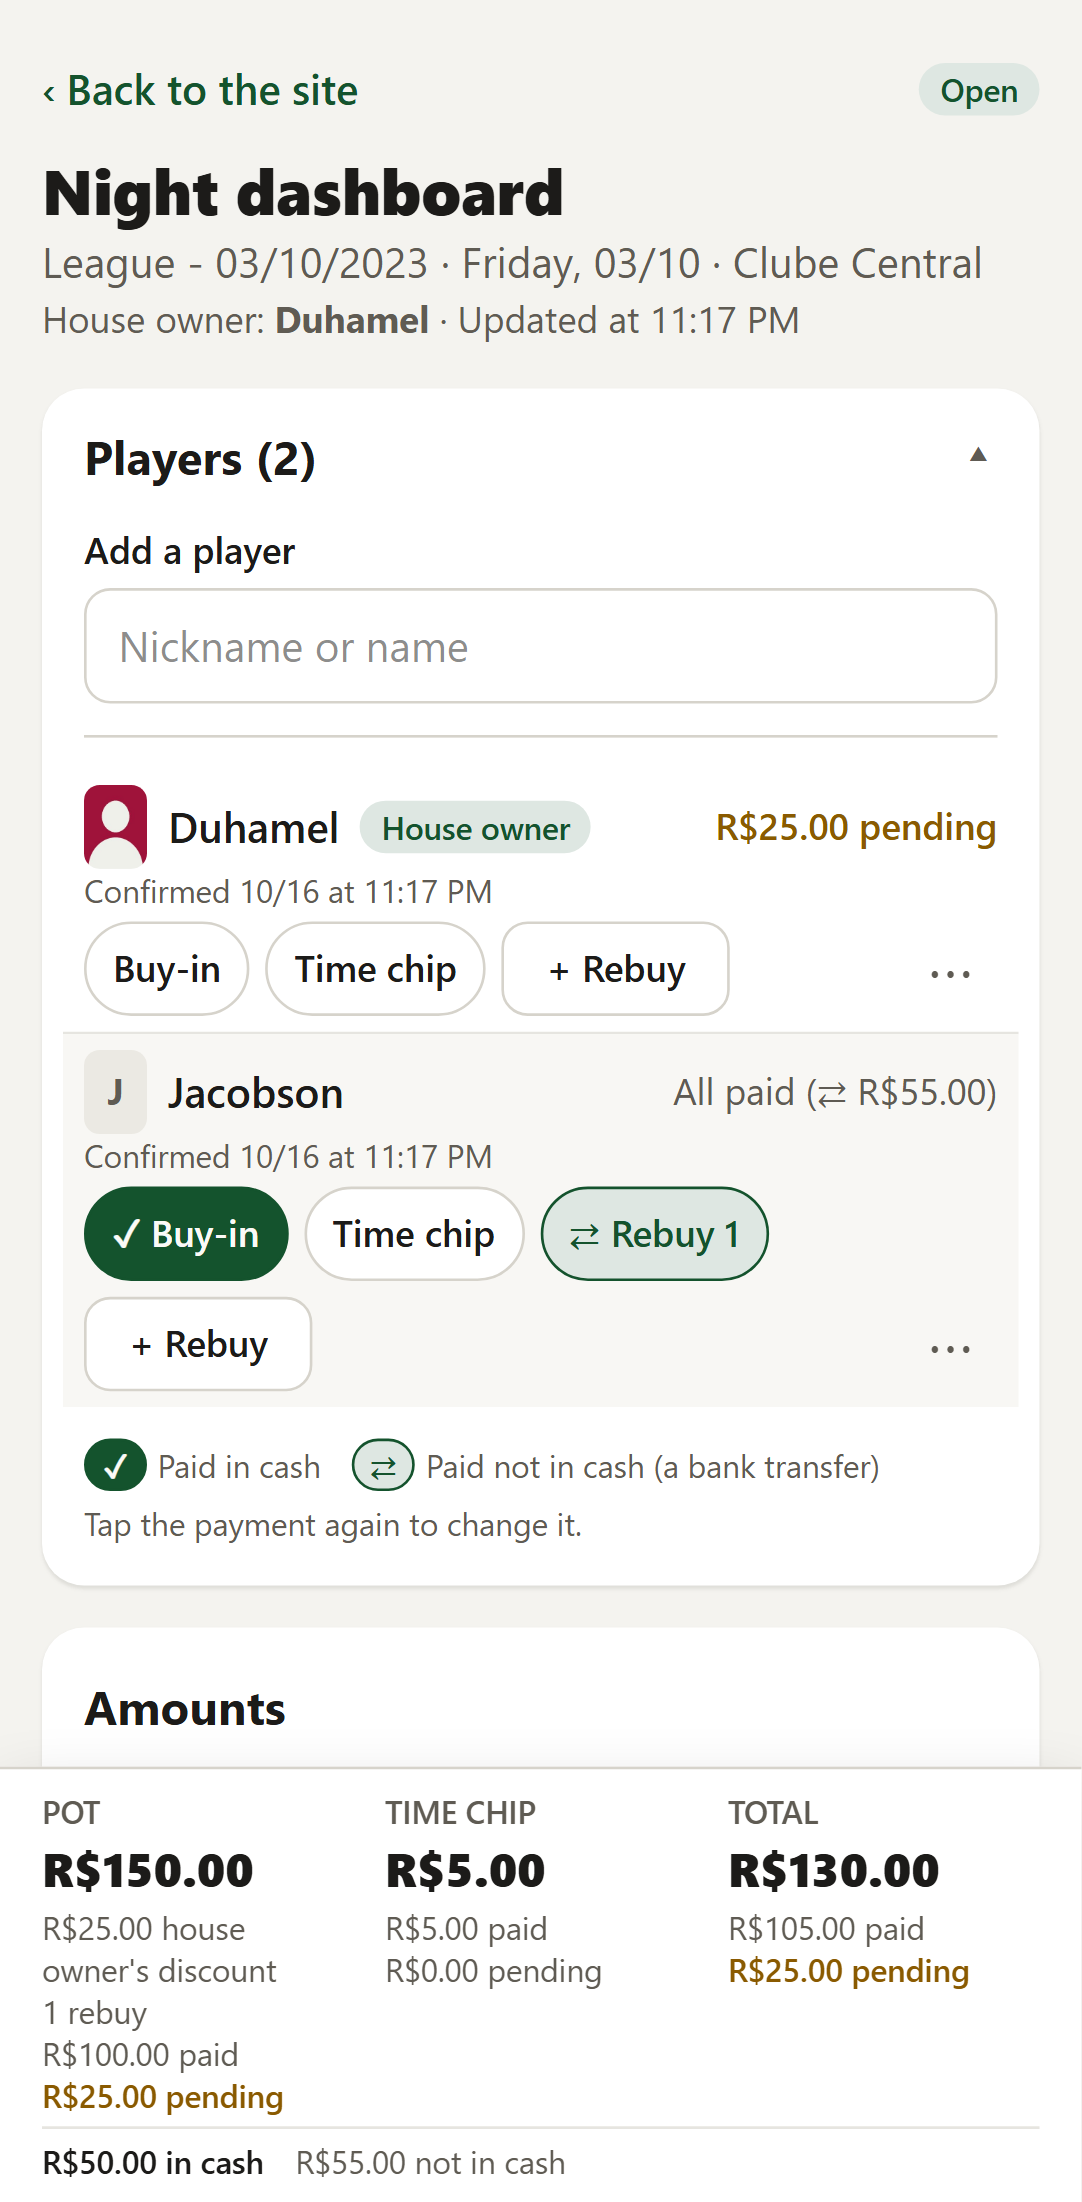
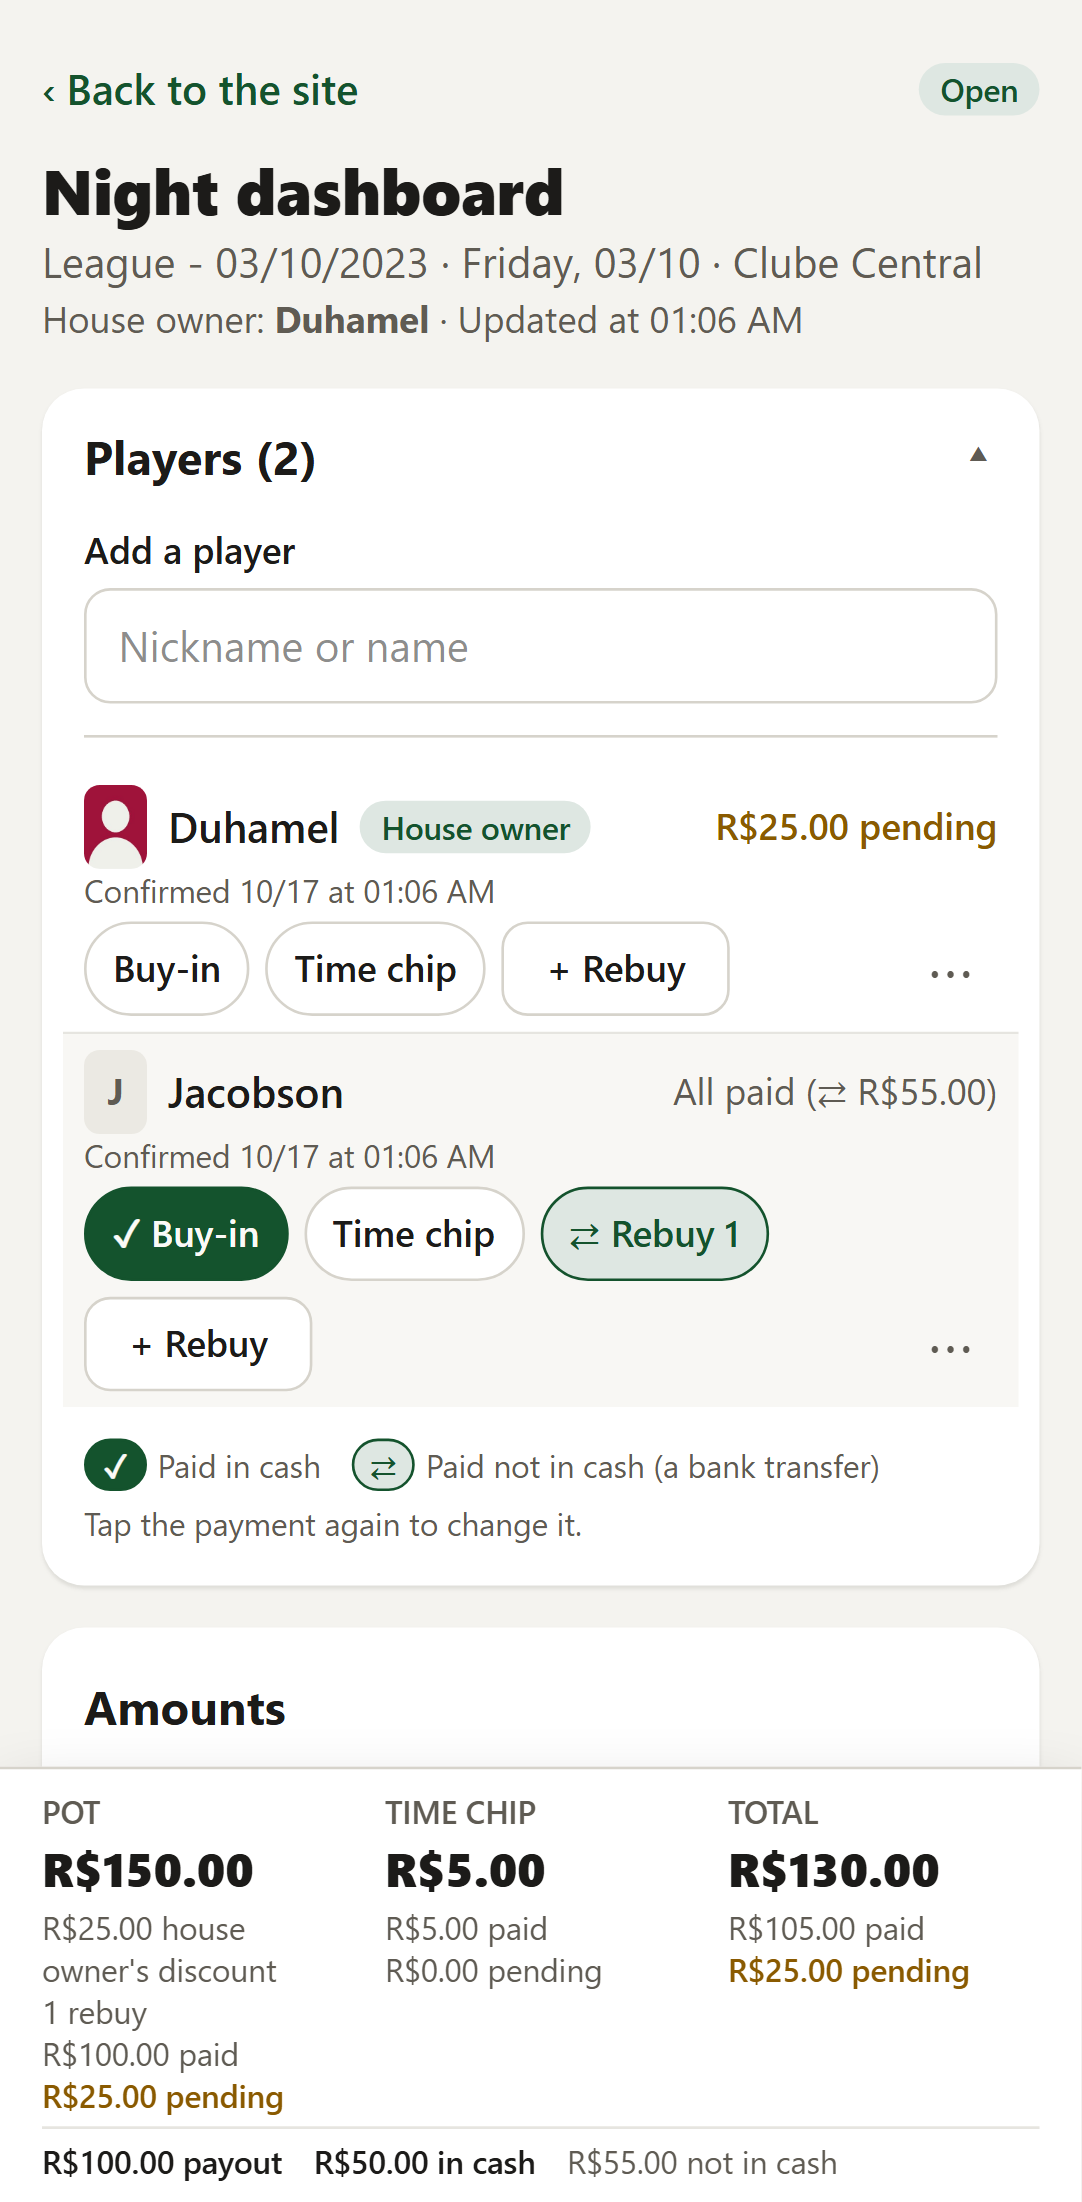
Show the night's payout on the night dashboard
The foot of the dashboard shows the payout ("Premiação"): the total without
the time chip, less the Main Event pot. It uses the amounts in use, so a pot
or a Main Event pot set by hand counts. Spec rule 11b, the glossary and the
dashboard screenshot are updated.

Claude-Session: https://claude.ai/code/session_01WMNcVpqiCsiS9yTczm4kWw

diff --git a/frontend/src/features/dashboard/NightDashboardView.tsx b/frontend/src/features/dashboard/NightDashboardView.tsx
@@ -372,8 +372,9 @@ function AmountsForm({ dashboard, onChange }: { dashboard: NightDashboard; onCha
  * The night's amounts, always in sight at the foot of the screen: the pot, the time chip apart from it, and the
  * two added up. The pot is the pot for points; when the owner of the house pays less, a line says by how much, so
  * that what the players owe adds up. Once the night has a rebuy, a line under the pot says how many. An amount
- * typed by hand stands in for the one worked out, which is still shown below it. Each says what was paid and what is pending, of what the players owe. Once a payment was not in cash, a line below
- * says how much of what was paid is in cash, to check the money in hand. With a large font, a column that does
+ * typed by hand stands in for the one worked out, which is still shown below it. Each says what was paid and what is pending, of what the players owe. A line below
+ * says how much is paid out to the players. Once a payment was not in cash, it also says how much of what was paid
+ * is in cash, to check the money in hand. With a large font, a column that does
  * not fit moves to a new line rather than cut its amounts short.
  */
 export function DashboardTotals({ dashboard }: { dashboard: NightDashboard }) {
@@ -413,12 +414,15 @@ export function DashboardTotals({ dashboard }: { dashboard: NightDashboard }) {
           </div>
         ))}
       </dl>
-      {Number(received.non_cash) !== 0 && (
-        <p className="mt-1 flex flex-wrap gap-x-3 border-t border-border/60 pt-1 text-xs tabular">
-          <span className="font-semibold">{t.dashboard.totals.cash({ amount: formatMoney(received.cash) })}</span>
-          <span className="text-muted">{t.dashboard.totals.nonCash({ amount: formatMoney(received.non_cash) })}</span>
-        </p>
-      )}
+      <p className="mt-1 flex flex-wrap gap-x-3 border-t border-border/60 pt-1 text-xs tabular">
+        <span className="font-semibold">{t.dashboard.totals.payout({ amount: formatMoney(inUse.payout) })}</span>
+        {Number(received.non_cash) !== 0 && (
+          <>
+            <span className="font-semibold">{t.dashboard.totals.cash({ amount: formatMoney(received.cash) })}</span>
+            <span className="text-muted">{t.dashboard.totals.nonCash({ amount: formatMoney(received.non_cash) })}</span>
+          </>
+        )}
+      </p>
     </section>
   )
 }

diff --git a/frontend/src/features/dashboard/dashboardMoney.ts b/frontend/src/features/dashboard/dashboardMoney.ts
@@ -103,13 +103,15 @@ export function recalculated(dashboard: NightDashboard): NightDashboard {
  * and else the ones worked out from the players. The pot is the pot for points, which counts the house owner's
  * buy-in in full; the total is money, so it leaves the house owner's discount out. `timeChip` is null on a site
  * without the time chip. The Main Event pot is the one set by hand, or else the season's share of the money; null
- * when the season sets none.
+ * when the season sets none. The payout is the money paid out to the players: the total without the time chip,
+ * less the Main Event pot.
  */
-export function amountsInUse(dashboard: NightDashboard): { pot: string; timeChip: string | null; total: string; mainEventPot: string | null } {
+export function amountsInUse(dashboard: NightDashboard): { pot: string; timeChip: string | null; total: string; mainEventPot: string | null; payout: string } {
   const pot = dashboard.manual.pot ?? dashboard.scoring_pot
   const timeChip = dashboard.totals.time_chip ? (dashboard.manual.time_chip ?? dashboard.totals.time_chip.owed) : null
   const mainEventPot = dashboard.main_event_pot ?? dashboard.suggested_main_event_pot
-  return { pot, timeChip, total: decimal(cents(pot) - cents(dashboard.house_owner_discount) + cents(timeChip ?? '0')), mainEventPot }
+  const money = cents(pot) - cents(dashboard.house_owner_discount)
+  return { pot, timeChip, total: decimal(money + cents(timeChip ?? '0')), mainEventPot, payout: decimal(money - cents(mainEventPot ?? '0')) }
 }
 
 const emptyLine = (player: Player): DashboardPlayer => ({

diff --git a/frontend/src/features/dashboard/dashboardMoney.test.ts b/frontend/src/features/dashboard/dashboardMoney.test.ts
@@ -187,7 +187,16 @@ describe('the pot for points', () => {
 describe('amountsInUse', () => {
   it('is what the dashboard works out, with the season\'s share of the pot as the Main Event pot', () => {
     // The pot for points counts the house owner's buy-in in full; the total is money.
-    expect(amountsInUse(nightDashboard)).toEqual({ pot: '450.00', timeChip: '25.00', total: '450.00', mainEventPot: '85.00' })
+    expect(amountsInUse(nightDashboard)).toEqual({ pot: '450.00', timeChip: '25.00', total: '450.00', mainEventPot: '85.00', payout: '340.00' })
+  })
+
+  it('pays out the total without the time chip, less the Main Event pot', () => {
+    // R$ 450,00 less the time chip of R$ 25,00 and the Main Event pot of R$ 90,00.
+    expect(amountsInUse({ ...nightDashboard, main_event_pot: '90.00' }).payout).toBe('335.00')
+    // A pot typed by hand: R$ 600,00 less the house owner's discount of R$ 25,00 and the Main Event pot.
+    expect(amountsInUse({ ...nightDashboard, manual: { pot: '600.00', time_chip: '40.00' }, suggested_main_event_pot: '115.00' }).payout).toBe('460.00')
+    // A season with no Main Event pot pays out all the money.
+    expect(amountsInUse({ ...nightDashboard, suggested_main_event_pot: null }).payout).toBe('425.00')
   })
 
   it('takes an amount typed by hand in place of the one worked out, one at a time', () => {

diff --git a/frontend/src/i18n/pt-BR/dashboard.ts b/frontend/src/i18n/pt-BR/dashboard.ts
@@ -90,6 +90,8 @@ export const dashboard = {
     houseOwnerDiscount: ({ amount }: { amount: string }) => `Desconto do dono da casa ${amount}`,
     /** How many rebuys the night has, paid or not. */
     rebuys: ({ count }: { count: number }) => `${count} ${plural(count, { one: 'rebuy', other: 'rebuys' })}`,
+    /** The money paid out to the players: the total without the time chip, less the Main Event pot. */
+    payout: ({ amount }: { amount: string }) => `Premiação ${amount}`,
     /** Of what was paid: what should be in hand, and what was paid another way, such as a bank transfer. */
     cash: ({ amount }: { amount: string }) => `Em dinheiro ${amount}`,
     nonCash: ({ amount }: { amount: string }) => `Fora do dinheiro ${amount}`,

diff --git a/frontend/src/i18n/en/dashboard.ts b/frontend/src/i18n/en/dashboard.ts
@@ -84,6 +84,8 @@ export const dashboard = {
     pending: ({ amount }: { amount: string }) => `${amount} pending`,
     houseOwnerDiscount: ({ amount }: { amount: string }) => `${amount} house owner's discount`,
     rebuys: ({ count }: { count: number }) => `${count} ${plural(count, { one: 'rebuy', other: 'rebuys' })}`,
+    /** The money paid out to the players: the total without the time chip, less the Main Event pot. */
+    payout: ({ amount }: { amount: string }) => `${amount} payout`,
     cash: ({ amount }: { amount: string }) => `${amount} in cash`,
     nonCash: ({ amount }: { amount: string }) => `${amount} not in cash`,
   },

diff --git a/frontend/src/features/dashboard/NightDashboardView.test.tsx b/frontend/src/features/dashboard/NightDashboardView.test.tsx
@@ -61,6 +61,11 @@ describe('NightDashboardView', () => {
     expect(totals.getByText('Total').closest('div')).toHaveTextContent('TotalR$ 450,00Pago R$ 295,00Falta R$ 155,00')
   })
 
+  it('shows the payout: the total without the time chip, less the Main Event pot', () => {
+    view()
+    expect(within(screen.getByRole('region', { name: 'Valores do evento' })).getByText('Premiação R$ 340,00')).toBeInTheDocument()
+  })
+
   it('says under the pot how many rebuys the night has, and nothing on a night with none', () => {
     const withRebuys = (counts: number[]) => ({
       ...nightDashboard,

diff --git a/docs/specs/night-dashboard.md b/docs/specs/night-dashboard.md
@@ -76,6 +76,10 @@ A site has the dashboard only if it turns it on (`nightDashboard` in `features`,
       season says a rebuy also pays the time chip, one for each rebuy. A rebuy's time chip is paid with the rebuy;
     - **"Total"**: the money of the two added up: the pot less the house owner's discount, and the time chip.
     The time chip is never mixed into the pot.
+11b. **"Premiação"** (payout), on a line under the amounts: the money paid out to the players. It is the total
+    without the time chip, less the Main Event pot: the pot in use less the house owner's discount, less the Main
+    Event pot in use (rule 14). A season with no Main Event pot pays out all of that money. It changes neither the
+    night's result nor its points.
 11a. **What was paid is split by how**, so that the money in hand can be checked:
     - **"Fora do dinheiro"** (not in cash): each buy-in paid not in cash, with the time chip that player paid;
       each rebuy paid not in cash, with the time chip it pays; and the adjustment of rule 13c, when there is one;
@@ -152,6 +156,9 @@ house owner's buy-in:
   Élio owes R$ 25,00 of buy-in. Breno owes R$ 215,00 in all and has R$ 55,00 pending. The pot for points is
   R$ 450,00: the R$ 425,00 owed and the house owner's discount of R$ 25,00, shown under the pot. Under it too,
   "4 rebuys": Ana's one and Breno's three.
+- **The payout.** With a Main Event pot share of 20%, the Main Event pot is R$ 85,00 (rule 14). The payout is
+  R$ 340,00: the total of R$ 450,00 less the time chip of R$ 25,00 and the Main Event pot of R$ 85,00. With a
+  Main Event pot of R$ 90,00 set by hand, it is R$ 335,00.
 - **Not in cash.** On that night Ana paid her rebuy by bank transfer, and Breno his buy-in. Ana's rebuy is
   R$ 55,00, with the time chip it pays, and Breno's buy-in R$ 50,00: of the R$ 295,00 paid, R$ 105,00 are not in
   cash and R$ 190,00 are in cash. The pot and the time chip are the same.

diff --git a/AGENTS.md b/AGENTS.md
@@ -173,6 +173,7 @@ to map one to the other. The English texts of the screens are in `frontend/src/i
 | Jogador (no painel) | Participant (`NightPlayer`, `NightEntry`) | A player the night dashboard has a record of, or who answered ALL IN on the open night. Owes one buy-in |
 | Rebuy | Rebuy | Buying in again on the same night. A season says how many are allowed (`rebuys_allowed`) and whether more can be made (`allows_extra_rebuys`): a player who goes past the limit is not recorded in a scoring position of that night, and the money still goes to the pot |
 | Dono da casa | House owner (`house_owner_player_id`) | The owner of the house where a night is played, picked on the night dashboard, who may pay a smaller buy-in (`house_owner_buy_in`). The pot for points still counts the full buy-in |
+| Premiação | Payout (`payout`) | The money of a night paid out to the players, on the night dashboard: the total without the time chip, less the Main Event pot |
 | Pontuação | Percentage table | Each scoring position's share of the pot |
 | Pessoas pontuam por evento | Scoring positions | How many places earn points (6 so far) |
 | Pontos | Points | A player's share of the pot for a night |
